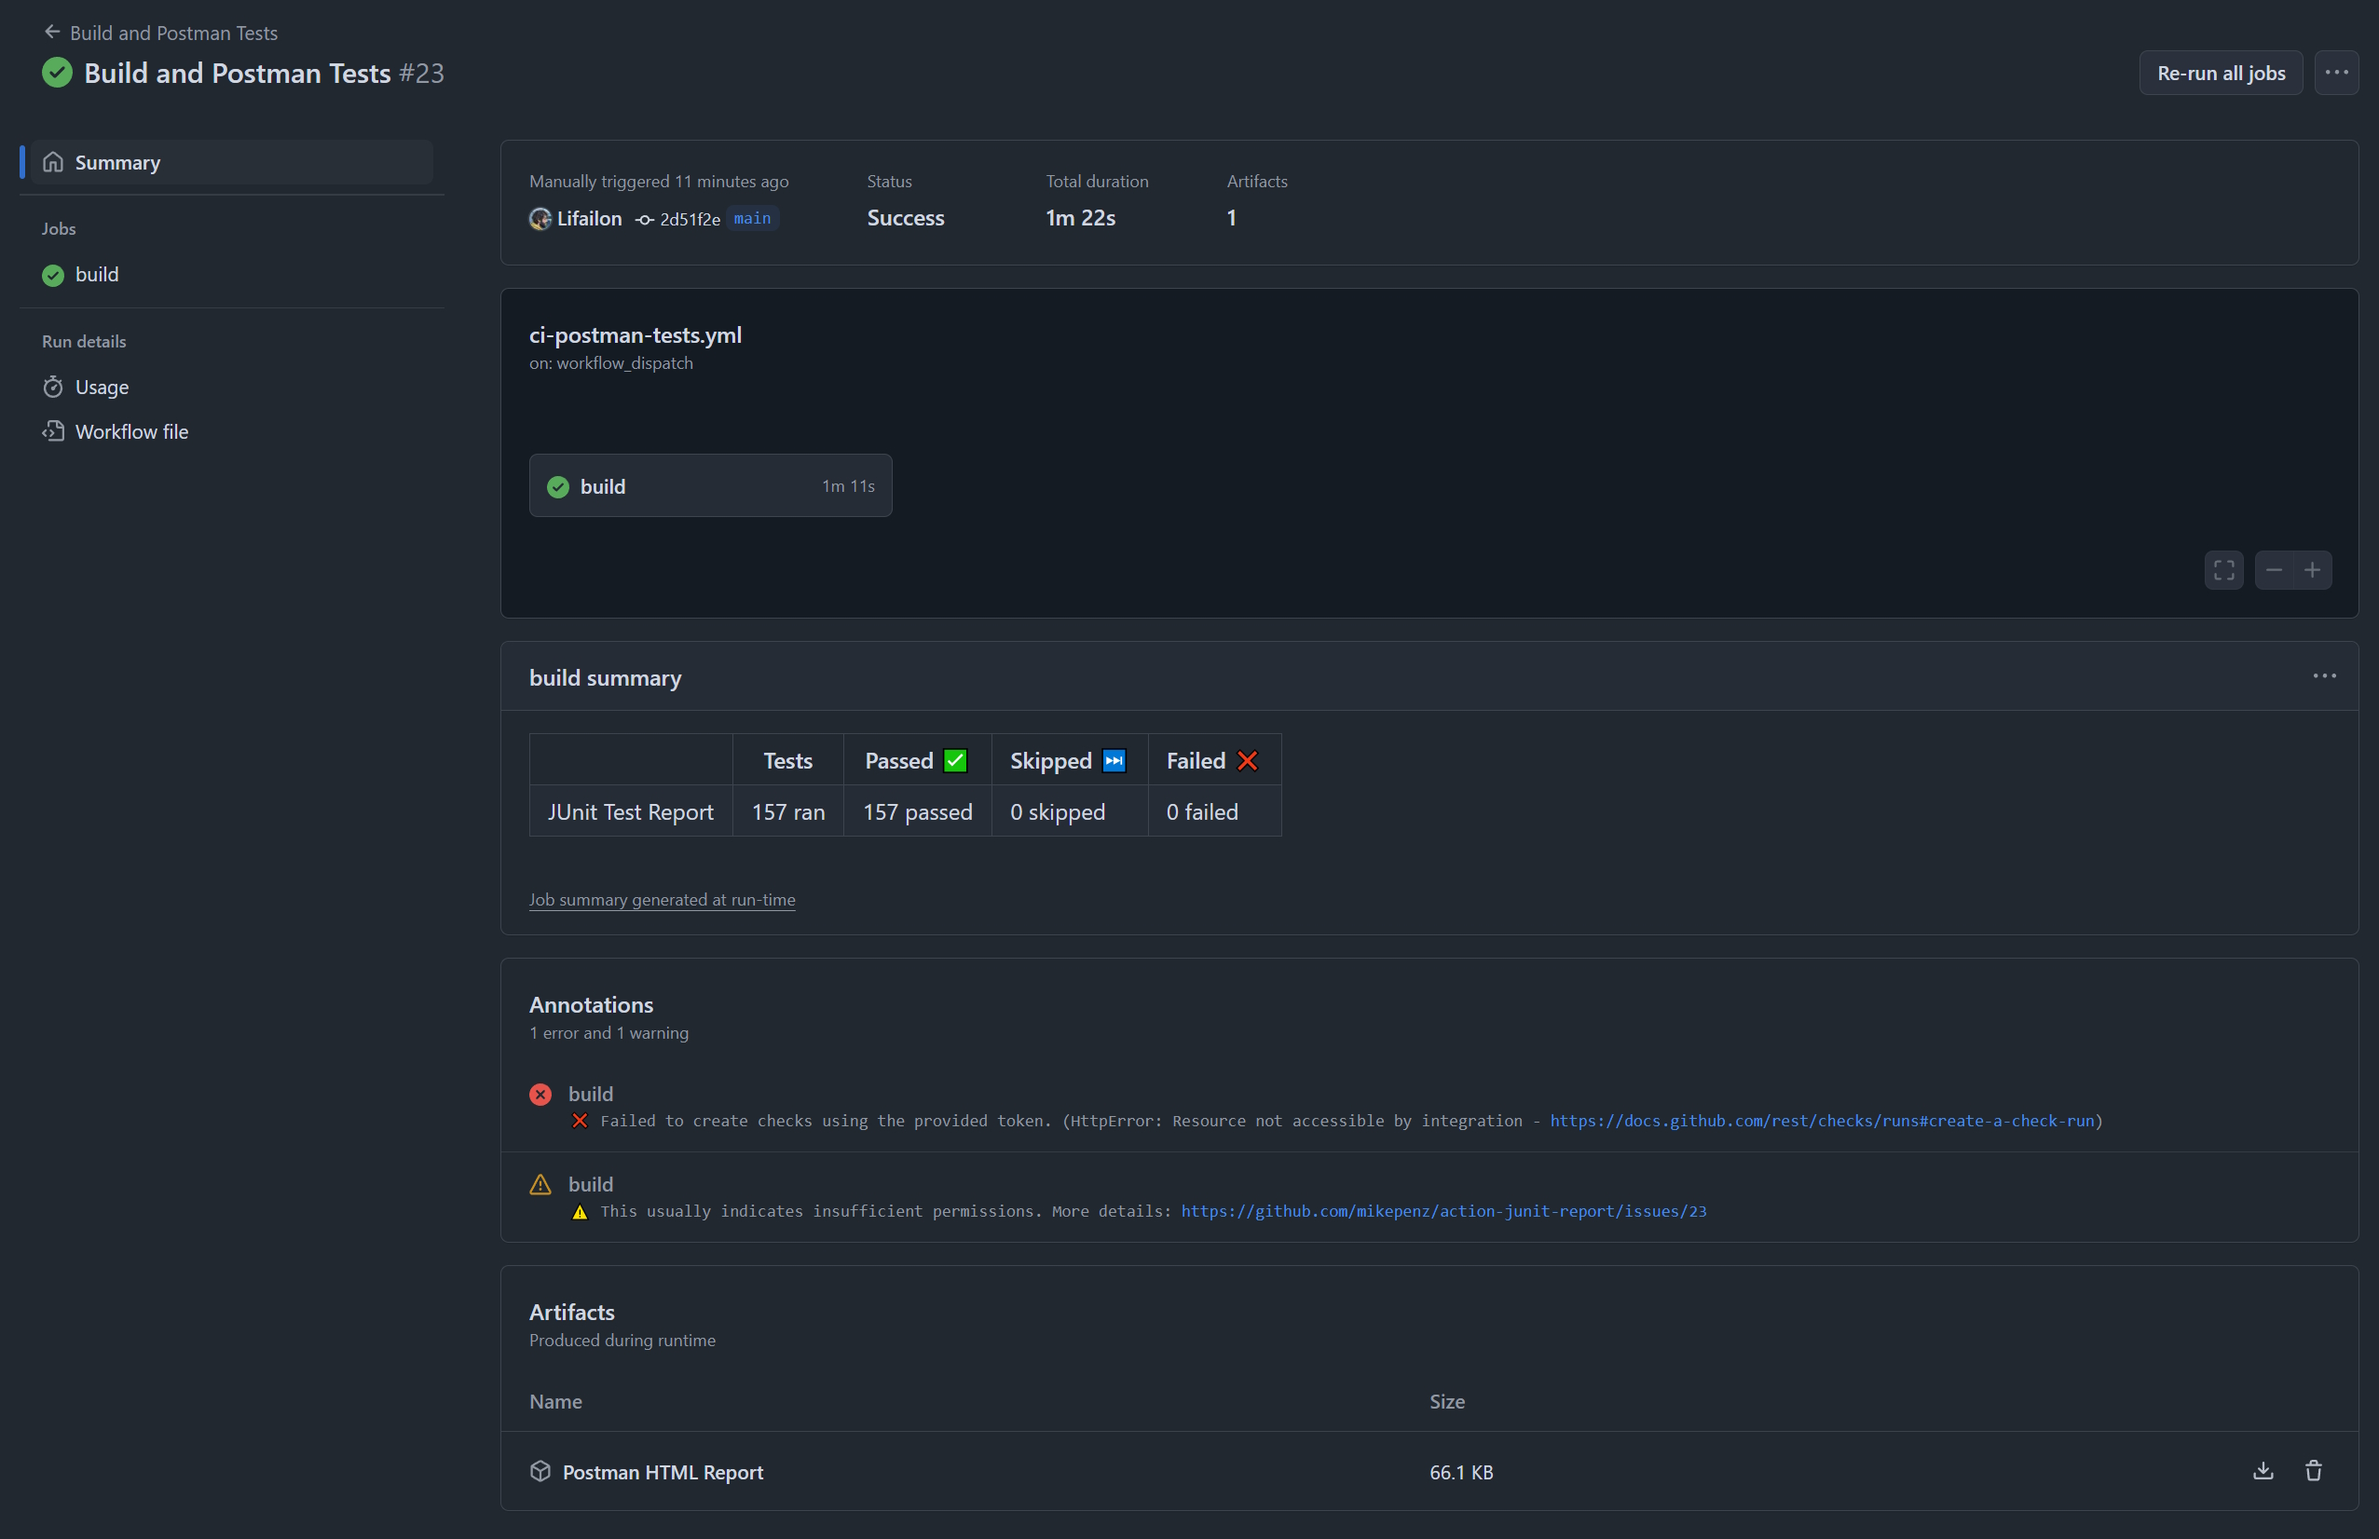
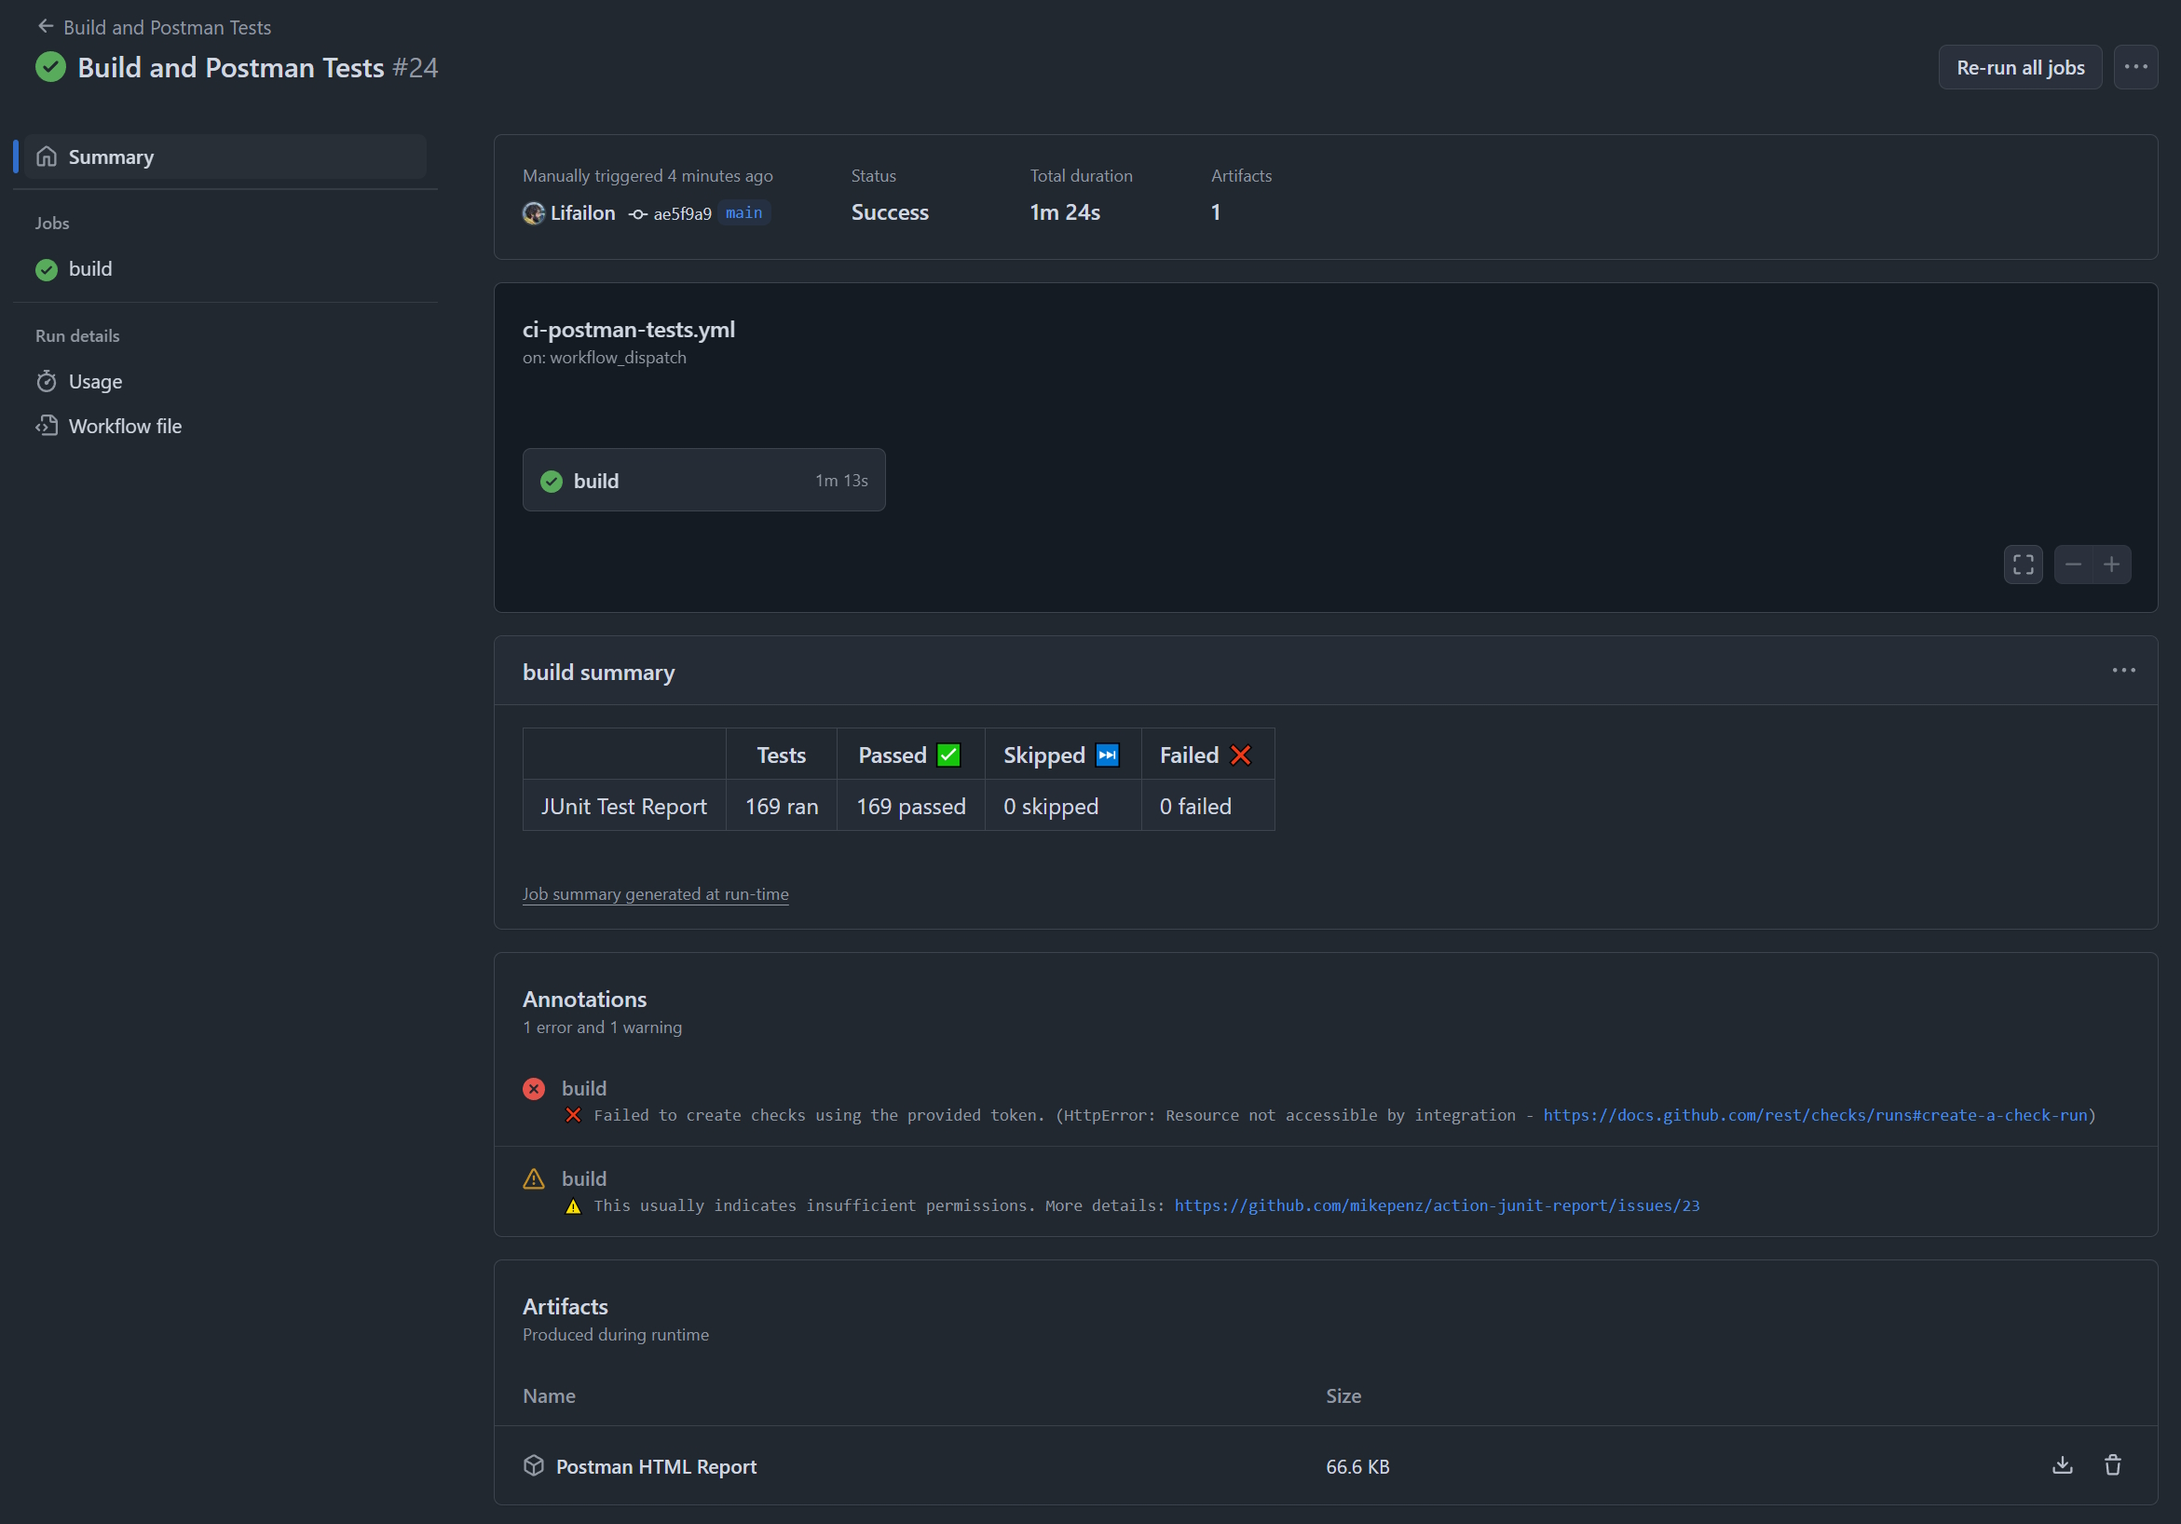
update tests

diff --git a/README.md b/README.md
@@ -256,19 +256,19 @@ newman run postman-tests.json \
 ├─────────────────────────┼────────────────────┼───────────────────┤
 │              iterations │                  1 │                 0 │
 ├─────────────────────────┼────────────────────┼───────────────────┤
-│                requests │                 39 │                 0 │
+│                requests │                 45 │                 0 │
 ├─────────────────────────┼────────────────────┼───────────────────┤
-│            test-scripts │                 93 │                 0 │
+│            test-scripts │                167 │                 0 │
 ├─────────────────────────┼────────────────────┼───────────────────┤
-│      prerequest-scripts │                 80 │                 0 │
+│      prerequest-scripts │                154 │                 0 │
 ├─────────────────────────┼────────────────────┼───────────────────┤
-│              assertions │                156 │                 0 │
+│              assertions │                169 │                 0 │
 ├─────────────────────────┴────────────────────┴───────────────────┤
-│ total run duration: 25s                                          │
+│ total run duration: 32s                                          │
 ├──────────────────────────────────────────────────────────────────┤
-│ total data received: 1.77MB (approx)                             │
+│ total data received: 1.95MB (approx)                             │
 ├──────────────────────────────────────────────────────────────────┤
-│ average response time: 596ms [min: 2ms, max: 5.8s, s.d.: 1130ms] │
+│ average response time: 663ms [min: 2ms, max: 6.1s, s.d.: 1216ms] │
 └──────────────────────────────────────────────────────────────────┘
 ```
 

diff --git a/README_RU.md b/README_RU.md
@@ -256,19 +256,19 @@ newman run postman-tests.json \
 ├─────────────────────────┼────────────────────┼───────────────────┤
 │              iterations │                  1 │                 0 │
 ├─────────────────────────┼────────────────────┼───────────────────┤
-│                requests │                 39 │                 0 │
+│                requests │                 45 │                 0 │
 ├─────────────────────────┼────────────────────┼───────────────────┤
-│            test-scripts │                 93 │                 0 │
+│            test-scripts │                167 │                 0 │
 ├─────────────────────────┼────────────────────┼───────────────────┤
-│      prerequest-scripts │                 80 │                 0 │
+│      prerequest-scripts │                154 │                 0 │
 ├─────────────────────────┼────────────────────┼───────────────────┤
-│              assertions │                156 │                 0 │
+│              assertions │                169 │                 0 │
 ├─────────────────────────┴────────────────────┴───────────────────┤
-│ total run duration: 25s                                          │
+│ total run duration: 32s                                          │
 ├──────────────────────────────────────────────────────────────────┤
-│ total data received: 1.77MB (approx)                             │
+│ total data received: 1.95MB (approx)                             │
 ├──────────────────────────────────────────────────────────────────┤
-│ average response time: 596ms [min: 2ms, max: 5.8s, s.d.: 1130ms] │
+│ average response time: 663ms [min: 2ms, max: 6.1s, s.d.: 1216ms] │
 └──────────────────────────────────────────────────────────────────┘
 ```
 
